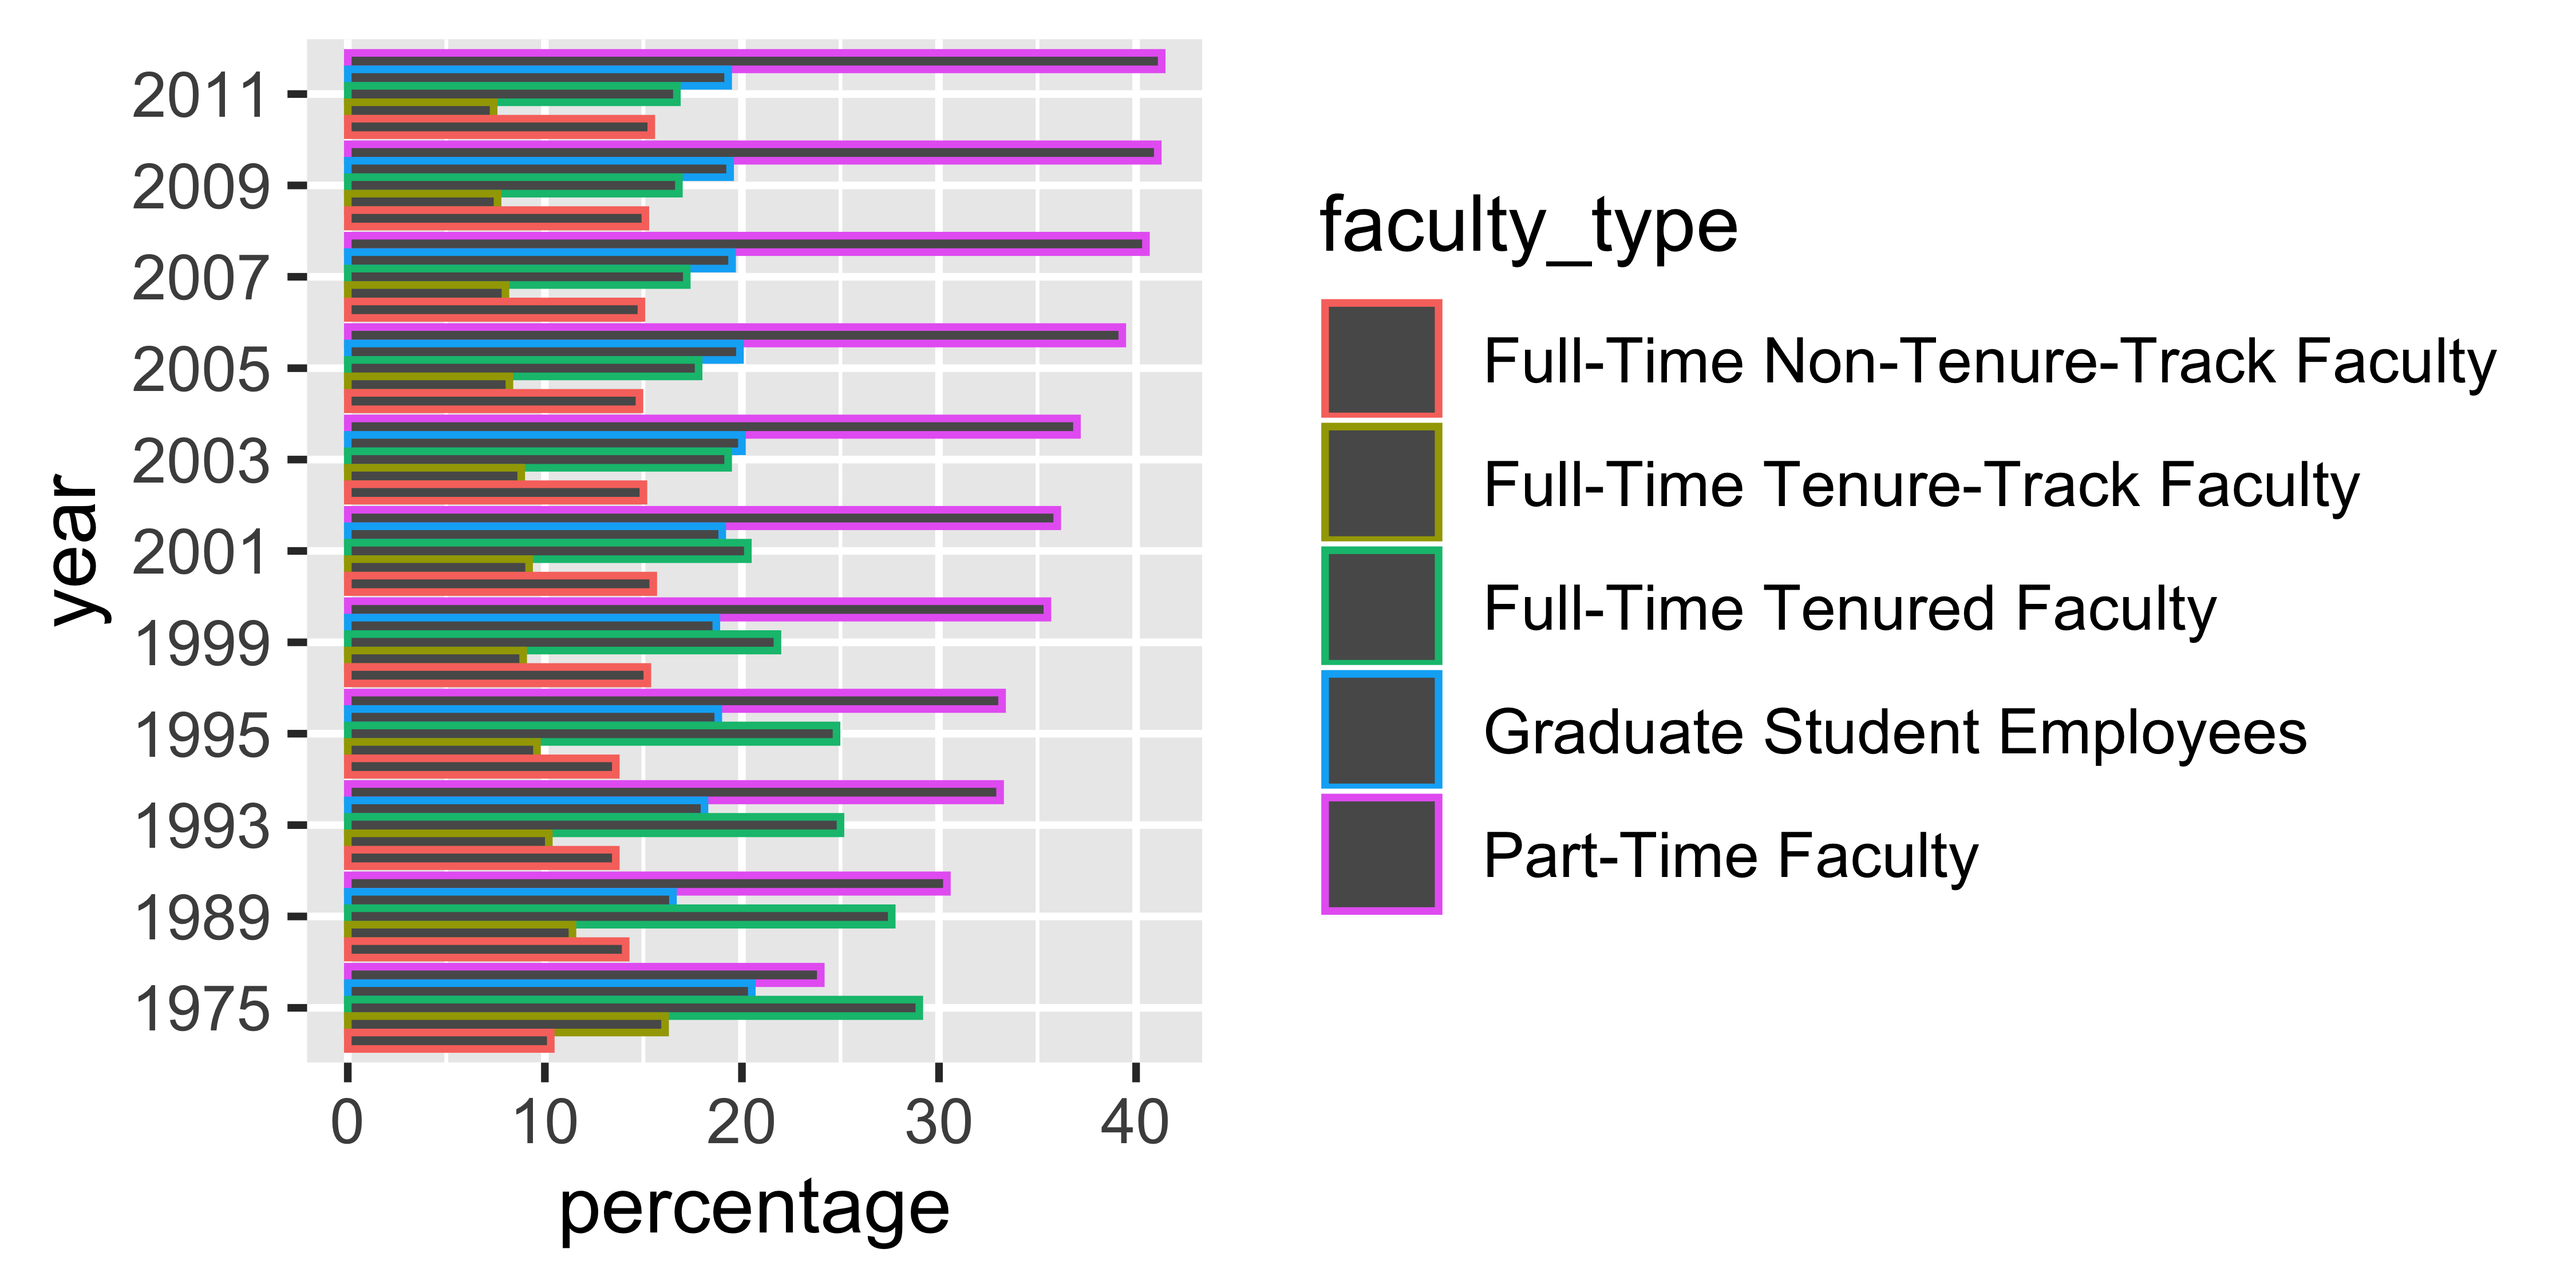
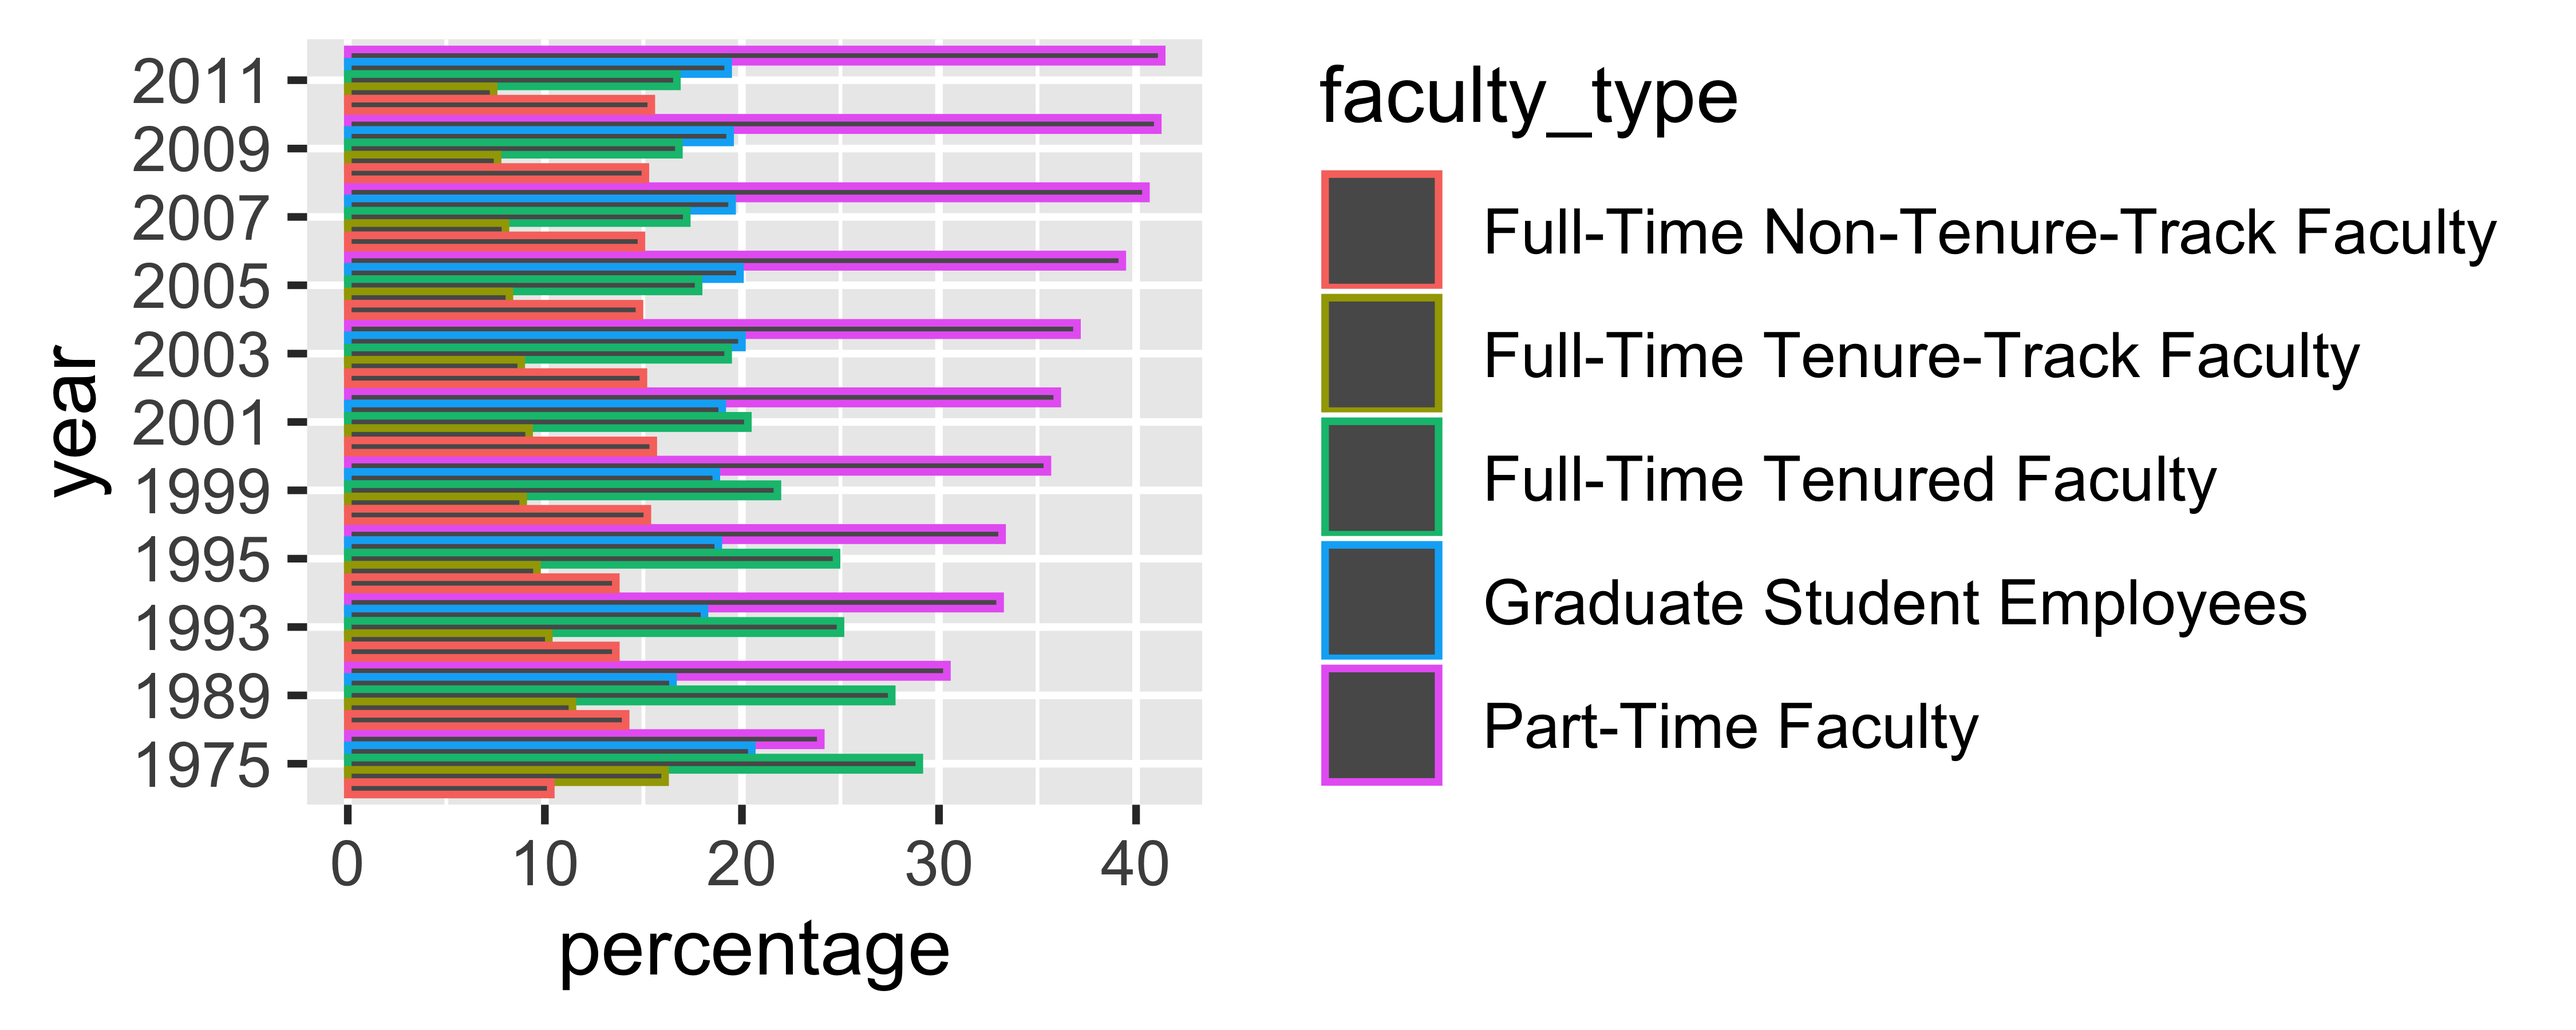
Figure resizing

diff --git a/slides/04-tidy-data/04-tidy-data.html b/slides/04-tidy-data/04-tidy-data.html
@@ -42,7 +42,7 @@ together. Take notes on topics you want to discuss/ask questions about when we
 come back to the big group.
 ]
 
-<div class="countdown" id="timer_5dd40b2a" style="right:0;bottom:0;" data-warnwhen="0">
+<div class="countdown" id="timer_5dd43d41" style="right:0;bottom:0;" data-warnwhen="0">
 <code class="countdown-time"><span class="countdown-digits minutes">10</span><span class="countdown-digits colon">:</span><span class="countdown-digits seconds">00</span></code>
 </div>
 
@@ -283,10 +283,12 @@ into longer format -- in this case all columns except for the `faculty_type`
 
 ## Pivot staff data
 
+.midi[
 
 ```r
 staff_long &lt;- staff %&gt;%
-  pivot_longer(cols = -faculty_type, names_to = "year", values_to = "percentage") %&gt;%
+  pivot_longer(cols = -faculty_type, names_to = "year", 
+               values_to = "percentage") %&gt;%
   mutate(percentage = as.numeric(percentage))
 
 staff_long
@@ -308,6 +310,7 @@ staff_long
 ## 10 Full-Time Tenured Faculty 2009        16.8
 ## # … with 45 more rows
 ```
+]
 
 ---
 
@@ -329,7 +332,7 @@ staff_long %&gt;%
 
 ---
 
-.small[
+.midi[
 
 ```r
 staff_long %&gt;%
@@ -345,6 +348,7 @@ staff_long %&gt;%
 
 ## Some improvement...
 
+.midi[
 
 ```r
 staff_long %&gt;%
@@ -354,19 +358,23 @@ staff_long %&gt;%
 ```
 
 &lt;img src="04-tidy-data_files/figure-html/unnamed-chunk-14-1.png" width="1500" /&gt;
+]
 
 ---
 
 ## More improvement
 
+.midi[
 
 ```r
 staff_long %&gt;%
-  ggplot(aes(x = year, y = percentage, group = faculty_type, color = faculty_type)) +
+  ggplot(aes(x = year, y = percentage, group = faculty_type, 
+             color = faculty_type)) +
   geom_line()
 ```
 
 &lt;img src="04-tidy-data_files/figure-html/unnamed-chunk-15-1.png" width="2100" /&gt;
+]
 
 ---
 
@@ -376,7 +384,7 @@ staff_long %&gt;%
 - Open the first R Markdown file: `01-instructional-staff.Rmd`
 - Knit the document, and work on the exercises
 
-<div class="countdown" id="timer_5dd40b91" style="right:0;bottom:0;" data-warnwhen="0">
+<div class="countdown" id="timer_5dd43e6c" style="right:0;bottom:0;" data-warnwhen="0">
 <code class="countdown-time"><span class="countdown-digits minutes">10</span><span class="countdown-digits colon">:</span><span class="countdown-digits seconds">00</span></code>
 </div>
 
